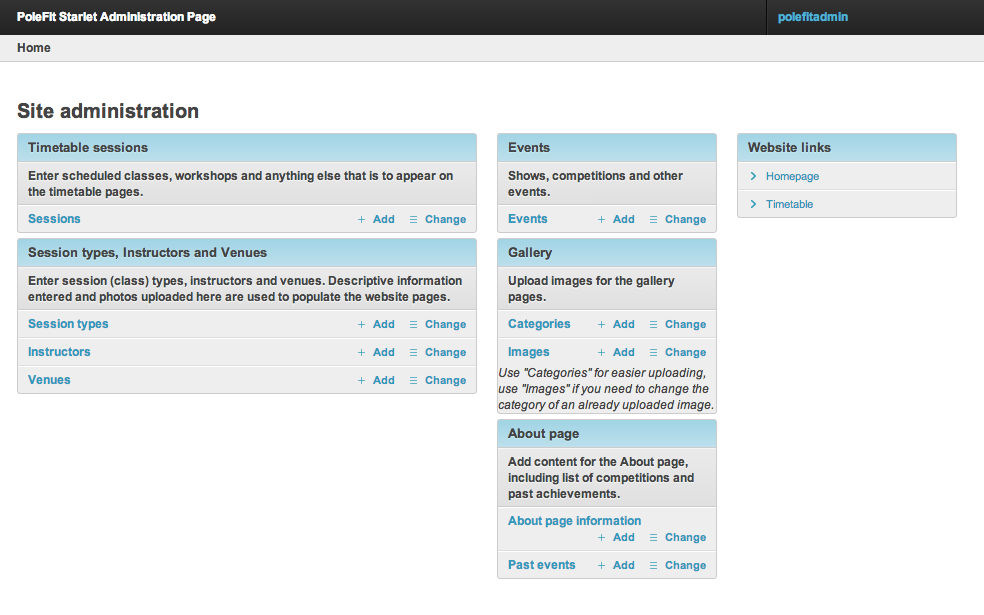
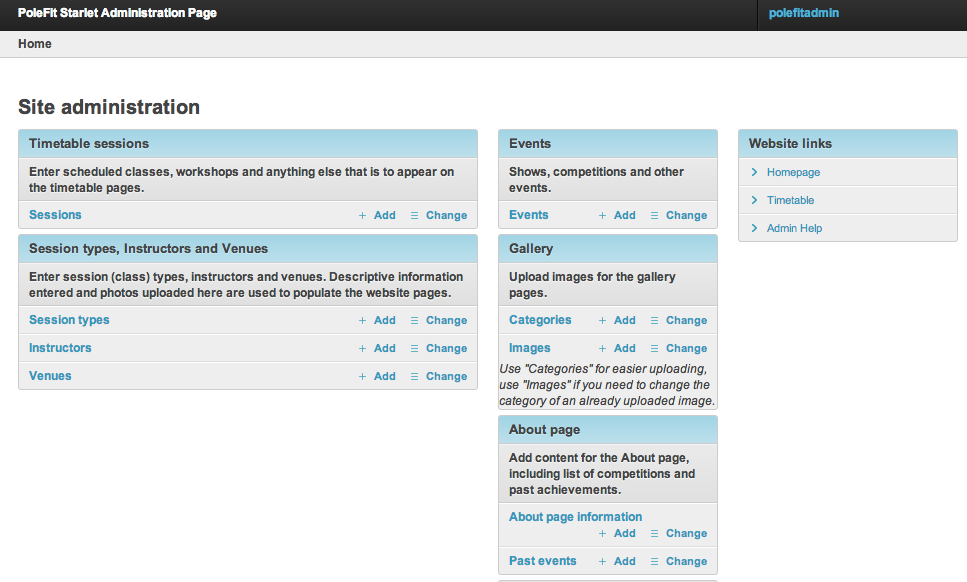
updates to admin help site

Changed region(s): [[0.0, 0.1546, 0.9928, 0.9278], [0.0, 0.0, 1.0, 0.0928], [0.4964, 0.9588, 0.7446, 1.0]]

diff --git a/polefit/website/templates/website/admin_help/admin_help.html b/polefit/website/templates/website/admin_help/admin_help.html
@@ -45,7 +45,7 @@
 
                     <p> After you log in, you will see the Admin Dashboard. The first two columns contain links to change/add
                     content to the website.  The third column contains
-                    useful links to actual pages on the site.  The links in the menu on the left hand side of this page
+                    useful links to actual pages on the site, including this help site.  The links in the menu on the left hand side of this page
                     provide further information on editing each of these sections.  The "Home" link in the top menu bar will
                     always bring you back to the Admin Dashboard page.</p>
                     <img class="img-responsive" src="{% static "website/images/admin_help/admin dashboard.png" %}"><br>

diff --git a/polefit/dashboard.py b/polefit/dashboard.py
@@ -106,9 +106,19 @@ class CustomIndexDashboard(Dashboard):
                     'url': '/timetable',
                     'external': False,
                 },
+
+            ]
+        ))
+
+        self.children.append(modules.LinkList(
+            _('Admin Help'),
+            pre_content=('<h4>Help pages for adminstration of the site</h4>'),
+            column=3,
+            children=[
+
                 {
                     'title': _('Admin Help'),
-                    'url': 'polefit_admin_help/help',
+                    'url': '/polefit_admin_help/help',
                     'external': False,
                 },
             ]
